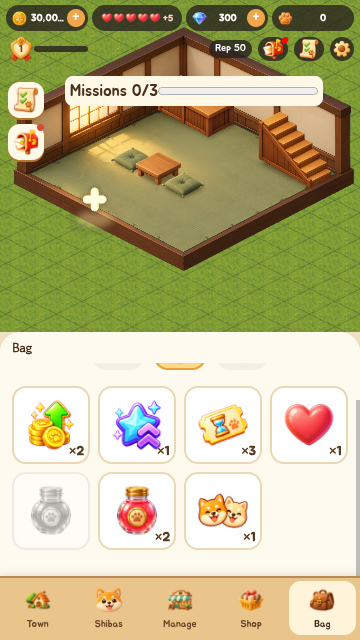
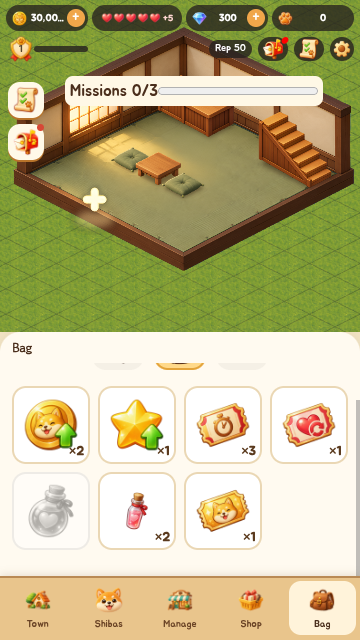
feat(bag): 그림이 시트 아이콘 11종 반영(아이템 7·탭 3·가벽), 작은 멍포션은 멍포션 높이 약 70%로 표시; 아이템 탭 스샷 갱신

diff --git a/start-room-3d/config.js b/start-room-3d/config.js
@@ -142,10 +142,10 @@ export const CFG={
   {id:'fuji',name:'후지산 벽화 카페',locked:true,unlockCost:2400000,unlockDia:1500,unlockLevel:20,art:null}, // starting value 2026-10-15 (밸런스_2년.md §3), pending user confirm: Lv20, 2,400,000멍 or 1,500다이아
   {id:'bamboo',name:'대나무 회랑',locked:true,unlockCost:5400000,unlockDia:3000,unlockLevel:35,art:null} // starting value 2026-10-15 (밸런스_2년.md §3), pending user confirm: Lv35, 5,400,000멍 or 3,000다이아
  ],
- bagUi:{ // 가방 아이콘 UI. 아이콘 경로만 바꾸면 교체됨. TEMP = 그림이 시트 오기 전 임시(기존 에셋 재사용)
-  tabs:{furniture:'assets/drive/ui/ui-icon-tea-table.png',items:'assets/drive/ui/tab-bag.png',acc:'assets/drive/ui/tab-shop.png'}, // TEMP 3종
-  items:{incomeBoost4h:'assets/drive/ui/item-income-boost.png',expBoost4h:'assets/drive/ui/item-exp-boost.png',cooldownTicket:'assets/drive/ui/item-cooldown-ticket.png',heartReset:'assets/drive/ui/res-heart.png',potionBig:'assets/drive/mung-potion_256.png',potionSmall:'assets/drive/mung-potion_256.png',capsule:'assets/drive/ui/tab-shiba.png'}, // TEMP 6종(+작은 포션)
-  furniture:{table:'assets/drive/ui/ui-icon-tea-table.png',cushion:'assets/drive/ui/ui-icon-zabuton.png',counter:'assets/drive/ui/ui-icon-counter.png',stairs:'assets/drive/ui/ui-icon-stairs.png',wall:'assets/drive/tiles/tile-wall-left.png'}},
+ bagUi:{ // 가방 아이콘 UI. 아이콘 경로만 바꾸면 교체됨. 그림이 시트(2026-10-16) 반영
+  tabs:{furniture:'assets/drive/ui/bag/tab_furniture.png',items:'assets/drive/ui/bag/tab_item.png',acc:'assets/drive/ui/bag/tab_accessory.png'},
+  items:{incomeBoost4h:'assets/drive/ui/bag/icon_income_boost.png',expBoost4h:'assets/drive/ui/bag/icon_xp_boost.png',cooldownTicket:'assets/drive/ui/bag/icon_cooldown.png',heartReset:'assets/drive/ui/bag/icon_heart_reset.png',potionBig:'assets/drive/ui/bag/icon_potion.png',potionSmall:'assets/drive/ui/bag/icon_potion_small.png',capsule:'assets/drive/ui/bag/icon_gacha_ticket.png'},
+  furniture:{table:'assets/drive/ui/ui-icon-tea-table.png',cushion:'assets/drive/ui/ui-icon-zabuton.png',counter:'assets/drive/ui/ui-icon-counter.png',stairs:'assets/drive/ui/ui-icon-stairs.png',wall:'assets/drive/ui/bag/icon_partition_wall.png'}},
 furniture:{starterExtra:{table:1,cushion:2,counter:1,stairs:1}, // starting value 2026-10-15, pending user confirm: five extra approved-sprite items, unplaced
  // starting value 2026-10-15, pending user confirm: table 40,000; cushion 20,000; extra props 5,000 coins.
  items:[{id:'tea-table',name:'찻상',price:40000},{id:'zabuton',name:'방석',price:20000},{id:'counter',name:'카운터',price:5000},{id:'stairs',name:'계단',price:5000}]}, // Prices: starting value 2026-10-15, pending user confirm; historical source: 1.3 / F p6·9 furniture prices

diff --git a/start-room-3d/index.html b/start-room-3d/index.html
@@ -305,6 +305,7 @@ small.fx{display:block;font-family:'Gowun Dodum',sans-serif;font-size:11px;opaci
 .bag-grid{display:grid;grid-template-columns:repeat(4,minmax(0,1fr));gap:8px;padding:0 2px 8px}
 .bag-cell{position:relative;aspect-ratio:1;min-width:0;padding:8px;border-radius:14px;background:#fff;border:2px solid #ead7b4;box-shadow:none;display:flex;align-items:center;justify-content:center}
 .bag-cell img,.bag-cell .band,.bag-pop-ico img{max-width:100%;max-height:100%;object-fit:contain}
+.bag-cell[data-item=potionSmall] img,[data-bag-pop=potionSmall] .bag-pop-ico img{height:90%;width:auto} /* 작은 멍포션 ≈ 멍포션 높이 70% */
 .bag-cell.empty{filter:grayscale(1);opacity:.45}
 .bag-n{position:absolute;right:4px;bottom:2px;font-family:Jua,sans-serif;font-size:13px;color:#5a3a1e;text-shadow:0 0 3px #fff,0 0 3px #fff}
 .bag-empty{text-align:center;color:#9a7a5a;font-size:13px;margin:16px 0}.bag-extra{display:flex;flex-direction:column;gap:8px;align-items:stretch;text-align:center}
